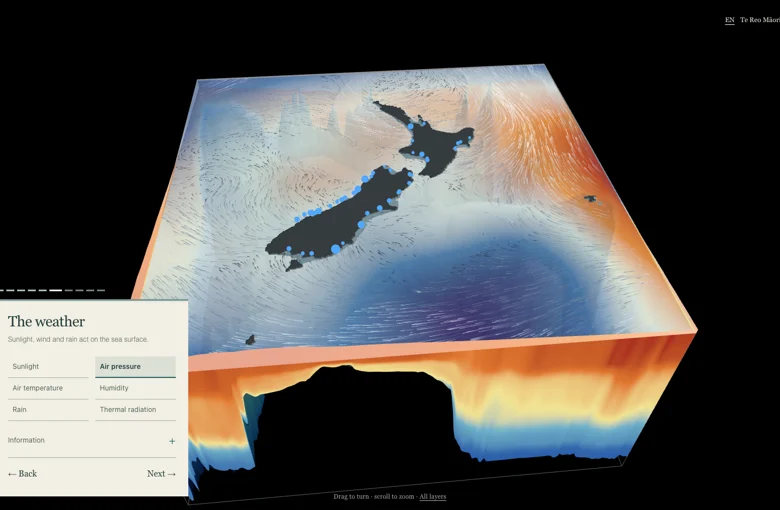
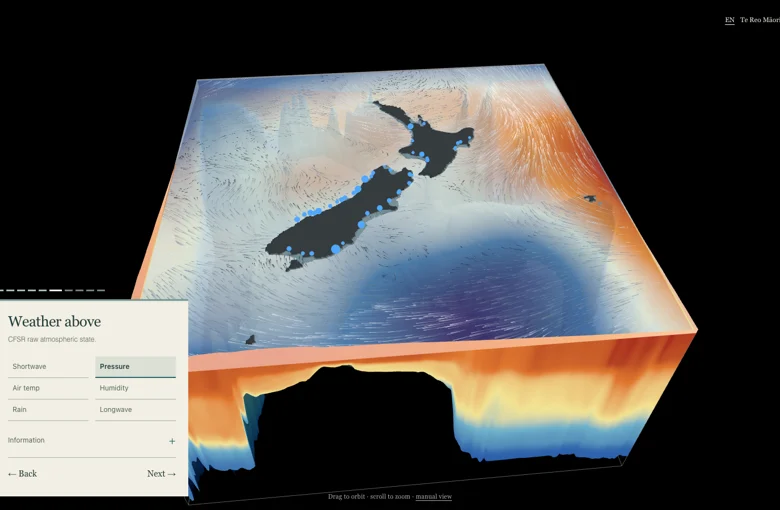
Restore the original scientific wording throughout the guided model

diff --git a/assembly_scene.js b/assembly_scene.js
@@ -187,12 +187,12 @@ const lwradDownRange = fieldRange(lwradDown, MASK);
 // all 6 of the file's 8 fields that vary spatially (wind stays the constant
 // animated layer above; the other 2, Uwind/Vwind, drive that animation).
 const METEO_FIELDS = {
-    swrad: { label: "Sunlight", field: swrad, range: swradRange, stops: SW_STOPS },
-    pair: { label: "Air pressure", field: pair, range: pairRange, stops: PAIR_STOPS },
-    tair: { label: "Air temperature", field: tair, range: tairRange, stops: TAIR_STOPS },
+    swrad: { label: "Shortwave", field: swrad, range: swradRange, stops: SW_STOPS },
+    pair: { label: "Pressure", field: pair, range: pairRange, stops: PAIR_STOPS },
+    tair: { label: "Air temp", field: tair, range: tairRange, stops: TAIR_STOPS },
     qair: { label: "Humidity", field: qair, range: qairRange, stops: QAIR_STOPS },
     rain: { label: "Rain", field: rain, range: rainRange, stops: RAIN_STOPS },
-    lwradDown: { label: "Thermal radiation", field: lwradDown, range: lwradDownRange, stops: LWRAD_STOPS },
+    lwradDown: { label: "Longwave", field: lwradDown, range: lwradDownRange, stops: LWRAD_STOPS },
 };
 // -- initial state (t=0 ocean handed to ROMS) + run-forward animation + Argo
 // check: the last three steps, using model input/output rather than forcing.
@@ -214,7 +214,7 @@ const INI_FIELDS = {
     temp: { label: "Temperature", field: INI_TEMP_SURF, range: iniTempRange, stops: WARM_STOPS },
     salt: { label: "Salinity", field: INI_SALT_SURF, range: iniSaltRange, stops: SALT_STOPS },
     speed: { label: "Current speed", field: INI_SPEED_SURF, range: iniSpeedRange, stops: WIND_SPEED_STOPS },
-    ssh: { label: "Sea level", field: INI_ZETA, range: iniZetaRange, stops: ZETA_STOPS },
+    ssh: { label: "SSH", field: INI_ZETA, range: iniZetaRange, stops: ZETA_STOPS },
 };
 // two full-depth curtains through the domain middle -- raw decode grouped
 // here (same pattern as NUDG_CLIM_WALLS above), painted where the meshes
@@ -238,7 +238,7 @@ const FRAMES_FIELDS = {
     temp: { label: "Temperature", range: FRAMES_TEMP_RANGE, stops: WARM_STOPS },
     salt: { label: "Salinity", range: FRAMES_SALT_RANGE, stops: SALT_STOPS },
     speed: { label: "Current speed", range: FRAMES_SPEED_RANGE, stops: WIND_SPEED_STOPS },
-    ssh: { label: "Sea level", range: FRAMES_ZETA_RANGE, stops: ZETA_STOPS },
+    ssh: { label: "SSH", range: FRAMES_ZETA_RANGE, stops: ZETA_STOPS },
 };
 // temperature/stratification anomaly frames only exist if the scene_data
 // build was given --clim-sst/--strat-dir/--clim-n2pyc
@@ -317,19 +317,19 @@ for (let k = 0; k < NY * NX; k++) {
 // -- step definitions -------------------------------------------------------
 const STEPS = [
     {
-        id: "grid", title: "The ocean grid", kid: "An ocean divided into cells, from the surface to the seabed.",
+        id: "grid", title: "The grid", kid: "395 x 465 points, 5 km, 50 sigma levels.",
         prov: "original", source: "nz5km_grd_horizontal.nc",
-        detail: "The hindcast's native grid: 395 x 465 points, 5 km spacing and 50 sigma levels.",
+        detail: "The hindcast's native grid file.",
         limitation: null,
     },
     {
-        id: "boundary", title: "The open ocean", kid: "Water enters and leaves at the edges.",
+        id: "boundary", title: "Open boundaries", kid: "GLORYS state at the walls.",
         prov: "rebuilt", source: "nz5km_N50_bnd_202101.nc",
         detail: "GLORYS reanalysis rebuilt into a ROMS boundary file.",
         limitation: null,
     },
     {
-        id: "volume", title: "Interior adjustment", kid: "Guiding the ocean toward its background state.",
+        id: "volume", title: "Interior nudging", kid: "Taken from the original configuration.",
         sources: [
             { prov: "original", source: "nz5km_nudg_N50.nc" },
             { prov: "rebuilt", source: "nz5km_N50_clim_202101.nc" },
@@ -338,43 +338,43 @@ const STEPS = [
         limitation: null,
     },
     {
-        id: "tides", title: "The tides", kid: "Sea level rises and falls at the ocean's edges.",
+        id: "tides", title: "Tides", kid: "11 constituents on the open boundary.",
         prov: "metocean", source: "nz5km-tide.nc",
-        detail: "11 tidal constituents. Tidal forcing provided by MetOcean.",
+        detail: "Tidal forcing provided by MetOcean.",
         limitation: "Amplitude and cycle speed normalized per constituent.",
     },
     {
-        id: "rivers", title: "Rivers meet the sea", kid: "Fresh water enters along the coast.",
+        id: "rivers", title: "Rivers", kid: "47 point sources.",
         prov: "metocean", source: "nz5km_N50_rivers.nc",
-        detail: "47 river sources. River forcing provided by MetOcean.",
+        detail: "River forcing provided by MetOcean.",
         limitation: null,
     },
     {
-        id: "meteo", title: "The weather", kid: "Sunlight, wind and rain act on the sea surface.",
+        id: "meteo", title: "Weather above", kid: "CFSR raw atmospheric state.",
         prov: "rebuilt", source: "nz5km_N50_meteo_202101.nc",
-        detail: "CFSR atmospheric fields, regridded onto the model grid. Sunlight is incoming shortwave radiation. Thermal radiation is downward longwave radiation.",
+        detail: "Regridded onto the model grid.",
         limitation: null,
     },
     {
-        id: "ini", title: "Starting conditions", kid: "The ocean state at the start of the simulation.",
+        id: "ini", title: "Initial state", kid: "The last state of the Moana Hindcast.",
         prov: "original", source: "nz5km_ini_20210101_audited.nc",
-        detail: "1 January 2021, using the last state of the Moana Hindcast.",
+        detail: "1 January 2021.",
         limitation: null,
     },
     {
-        id: "frames", title: "Watch the ocean change", kid: "Follow the simulation as it moves forward.",
+        id: "frames", title: "Run forward", kid: "The model's own output, month by month.",
         prov: "original", source: "nz5km_avg_*.nc",
         detail: "A few daily-mean snapshots per month, across the whole run so far.",
         limitation: null,
     },
     {
-        id: "argo", title: "A check against observations", kid: "Compare the model with measurements from drifting ocean floats.",
+        id: "argo", title: "Argo check", kid: `${ARGO_MODEL.length} independent float profiles.`,
         prov: "obs", source: `argo_floats_${ARGO_MONTH.replace("-", "")}.json`,
-        detail: `${ARGO_MODEL.length} independent Argo float profiles. Model minus observed at each depth: red model-high, blue model-low.`,
+        detail: "Model minus observed at each depth: red model-high, blue model-low.",
         limitation: null,
     },
     {
-        id: "parts", title: "Inside the model", kid: "Choose a component to explore.",
+        id: "parts", title: "Data explorer", kid: "Explore forcing data",
         detail: "Each forcing component opens its own page.",
         limitation: null,
     },
@@ -952,7 +952,7 @@ export function mountAssembly() {
         }
         col.needsUpdate = true;
     }
-    const NUDG_MODE_FIELDS = { coef: { label: "Adjustment strength" }, temp: { label: "Temperature" }, salt: { label: "Salinity" }, speed: { label: "Current speed" } };
+    const NUDG_MODE_FIELDS = { coef: { label: "Pull strength" }, temp: { label: "Temperature" }, salt: { label: "Salinity" }, speed: { label: "Current speed" } };
     function setNudgDisplayMode(key) {
         if (!NUDG_MODE_FIELDS[key]) return;
         nudgDisplayMode = key;
@@ -1923,8 +1923,8 @@ export function mountAssembly() {
         const argoVarButtons = document.getElementById("argo-var-buttons");
 
         if (stepIdx < 0) {
-            if (titleEl) titleEl.textContent = "An ocean in layers";
-            if (kidEl) kidEl.textContent = "Explore the water, weather and tides that shape the model.";
+            if (titleEl) titleEl.textContent = "An empty model";
+            if (kidEl) kidEl.textContent = "";
             if (detailBody) detailBody.innerHTML = "";
             if (limitEl) limitEl.style.display = "none";
             if (fieldButtons) fieldButtons.classList.remove("visible");
@@ -1962,7 +1962,7 @@ export function mountAssembly() {
             partsLegendEl.innerHTML = s.id === "parts"
                 ? `<nav class="component-links" aria-labelledby="step-title">
                     <a href="dig_weather.html">Weather</a>
-                    <a href="dig_boundary.html">Ocean exchange</a>
+                    <a href="dig_boundary.html">Open boundaries</a>
                     <a href="dig_tides.html">Tides</a>
                     <a href="dig_rivers.html">Rivers</a>
                   </nav>`

diff --git a/index.html b/index.html
@@ -8,7 +8,7 @@
     <link rel="stylesheet" href="explorer.css?v=20261112-labels">
     <link rel="stylesheet" href="entrance.css?v=20261111-model">
     <link rel="stylesheet" href="guided-controls.css?v=20261112-editorial">
-<link rel="stylesheet" href="language.css?v=20261110-reo1"><script defer src="language.js?v=20261112-metocean"></script>
+<link rel="stylesheet" href="language.css?v=20261110-reo1"><script defer src="language.js?v=20261112-copy-restored"></script>
 <script>
     const previewTheme = new URLSearchParams(location.search).get("theme");
     if (["soundings", "watch", "etretat"].includes(previewTheme)) {
@@ -80,7 +80,7 @@
             </div>
         </div>
 
-        <div id="hint"><span class="gesture-mouse">Drag to turn &middot; scroll to zoom &middot; </span><span class="gesture-touch">Drag to turn &middot; pinch to zoom &middot; </span><a href="full.html" style="pointer-events:auto">All layers</a></div>
+        <div id="hint"><span class="gesture-mouse">Drag to orbit &middot; scroll to zoom &middot; </span><span class="gesture-touch">Drag to turn &middot; pinch to zoom &middot; </span><a href="full.html" style="pointer-events:auto">manual view</a></div>
         <div id="err"></div>
     </div>
 
@@ -91,7 +91,7 @@
         "three/addons/": "https://cdn.jsdelivr.net/npm/three@0.160.0/examples/jsm/"
     }}
     </script>
-    <script type="module" src="entrance.js?v=20261112-metocean"></script>
+    <script type="module" src="entrance.js?v=20261112-copy-restored"></script>
 </body>
 
 </html>

diff --git a/language.js b/language.js
@@ -15,5 +15,5 @@
  function choose(next){language=next;try{localStorage.setItem('site-language',language)}catch(_){}refresh();document.dispatchEvent(new CustomEvent('site-language-change',{detail:{language}}));window.dispatchEvent(new Event('resize'))}
  const group=document.createElement('div');group.className='language-switch';group.setAttribute('role','group');group.setAttribute('aria-label','Language / Reo');for(const [code,label] of [['en','EN'],['mi','Te Reo Māori']]){const b=document.createElement('button');b.type='button';b.dataset.language=code;b.lang=code;b.textContent=label;b.onclick=()=>choose(code);group.append(b)}document.body.append(group);
  const originalFill=CanvasRenderingContext2D.prototype.fillText;CanvasRenderingContext2D.prototype.fillText=function(text,...args){return originalFill.call(this,translate(String(text)),...args)};
- fetch('language-mi.json?v=20261112-metocean').then(r=>r.json()).then(d=>{dictionary=d;ordered=Object.entries(d).filter(([k])=>k.length>=3).sort((a,b)=>b[0].length-a[0].length).map(([en,mi])=>[new RegExp('(?<![A-Za-z])'+escape(en)+'(?![A-Za-z])','g'),mi]);observer=new MutationObserver(()=>refresh());refresh()});
+ fetch('language-mi.json?v=20261112-copy-restored').then(r=>r.json()).then(d=>{dictionary=d;ordered=Object.entries(d).filter(([k])=>k.length>=3).sort((a,b)=>b[0].length-a[0].length).map(([en,mi])=>[new RegExp('(?<![A-Za-z])'+escape(en)+'(?![A-Za-z])','g'),mi]);observer=new MutationObserver(()=>refresh());refresh()});
 })();

diff --git a/dig_tides.html b/dig_tides.html
@@ -106,7 +106,7 @@
         #constituent-info { font-size: 11.5px; color: var(--muted); margin-top: 8px; min-height: 15px; }
         #constituent-info code { color: var(--ink); background: var(--panel-2); padding: 1px 5px; border-radius: 4px; }
     </style>
-<link rel="stylesheet" href="language.css?v=20261110-reo1"><script defer src="language.js?v=20261112-metocean"></script></head>
+<link rel="stylesheet" href="language.css?v=20261110-reo1"><script defer src="language.js?v=20261112-copy-restored"></script></head>
 
 <body>
     <div id="dig-wrap">

diff --git a/entrance.js b/entrance.js
@@ -32,7 +32,7 @@ try {
         data.onerror = () => reject(new Error("The model data could not be downloaded. Check your connection and try again."));
         document.body.appendChild(data);
     });
-    const { mountAssembly } = await import("./assembly_scene.js?v=20261112-metocean");
+    const { mountAssembly } = await import("./assembly_scene.js?v=20261112-copy-restored");
     mountAssembly(); // Returns after UI setup and the first successful WebGL render.
     await nextFrame();
     await nextFrame();

diff --git a/full.html b/full.html
@@ -6,7 +6,7 @@
     <meta name="viewport" content="width=device-width, initial-scale=1.0">
     <title>Full explorer — ROMS extension domain</title>
     <link rel="stylesheet" href="explorer.css?v=20261112-labels">
-<link rel="stylesheet" href="language.css?v=20261110-reo1"><script defer src="language.js?v=20261112-metocean"></script></head>
+<link rel="stylesheet" href="language.css?v=20261110-reo1"><script defer src="language.js?v=20261112-copy-restored"></script></head>
 
 <body>
     <div id="app">

diff --git a/dig_rivers.html b/dig_rivers.html
@@ -16,7 +16,7 @@
         #placement-note li:last-child { margin-bottom: 0; }
         #placement-note li b { color: var(--ink); font-weight: 500; }
     </style>
-<link rel="stylesheet" href="language.css?v=20261110-reo1"><script defer src="language.js?v=20261112-metocean"></script></head>
+<link rel="stylesheet" href="language.css?v=20261110-reo1"><script defer src="language.js?v=20261112-copy-restored"></script></head>
 
 <body>
     <div id="viewport" style="height:100vh">

diff --git a/dig_weather.html b/dig_weather.html
@@ -94,7 +94,7 @@
             #series-grid, #regrid-grid { grid-template-columns: 1fr; }
         }
     </style>
-<link rel="stylesheet" href="language.css?v=20261110-reo1"><script defer src="language.js?v=20261112-metocean"></script></head>
+<link rel="stylesheet" href="language.css?v=20261110-reo1"><script defer src="language.js?v=20261112-copy-restored"></script></head>
 
 <body>
     <div id="dig-wrap">

diff --git a/dig_boundary.html b/dig_boundary.html
@@ -25,7 +25,7 @@
             vertical-align: middle;
         }
     </style>
-<link rel="stylesheet" href="language.css?v=20261110-reo1"><script defer src="language.js?v=20261112-metocean"></script></head>
+<link rel="stylesheet" href="language.css?v=20261110-reo1"><script defer src="language.js?v=20261112-copy-restored"></script></head>
 
 <body>
     <div id="viewport" style="height:100vh">
